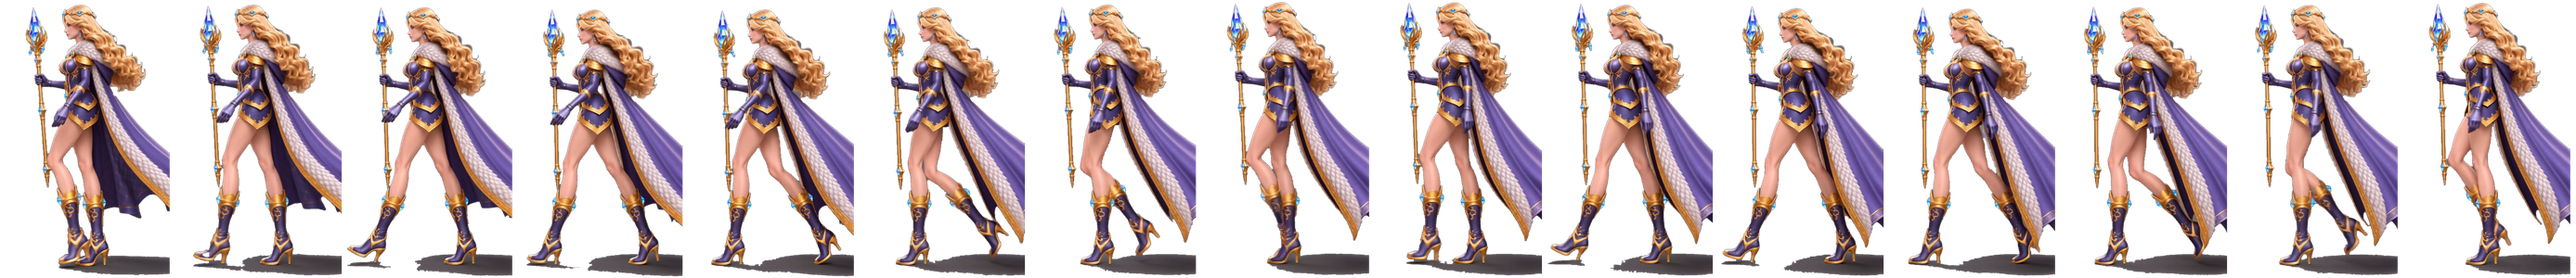
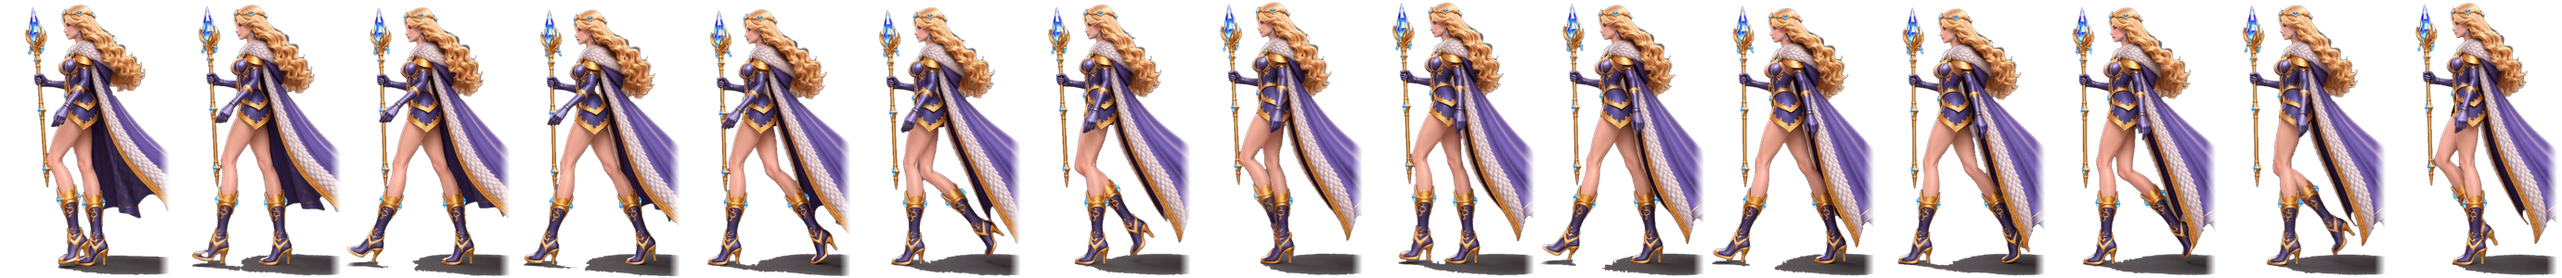
Плащ: мягкое растворение кромки (срез сидел в кадре Kling) + обход кэша

diff --git a/index.html b/index.html
@@ -35,14 +35,14 @@ window.addEventListener('resize', resize); resize();
 
 const META = {
   front: { frames: 19, w: 161, h: 300, cycle: 1.542 },
-  side:  { frames: 15, w: 185, h: 300, cycle: 1.208 },
+  side:  { frames: 15, w: 184, h: 300, cycle: 1.208 },
 };
 const img = {};
 let loaded = 0;
 for (const k of ['front', 'side']) {
   img[k] = new Image();
   img[k].onload = () => { loaded++; };
-  img[k].src = k + '.png';
+  img[k].src = k + '.png?v=3';
 }
 
 // --- игрок ---
